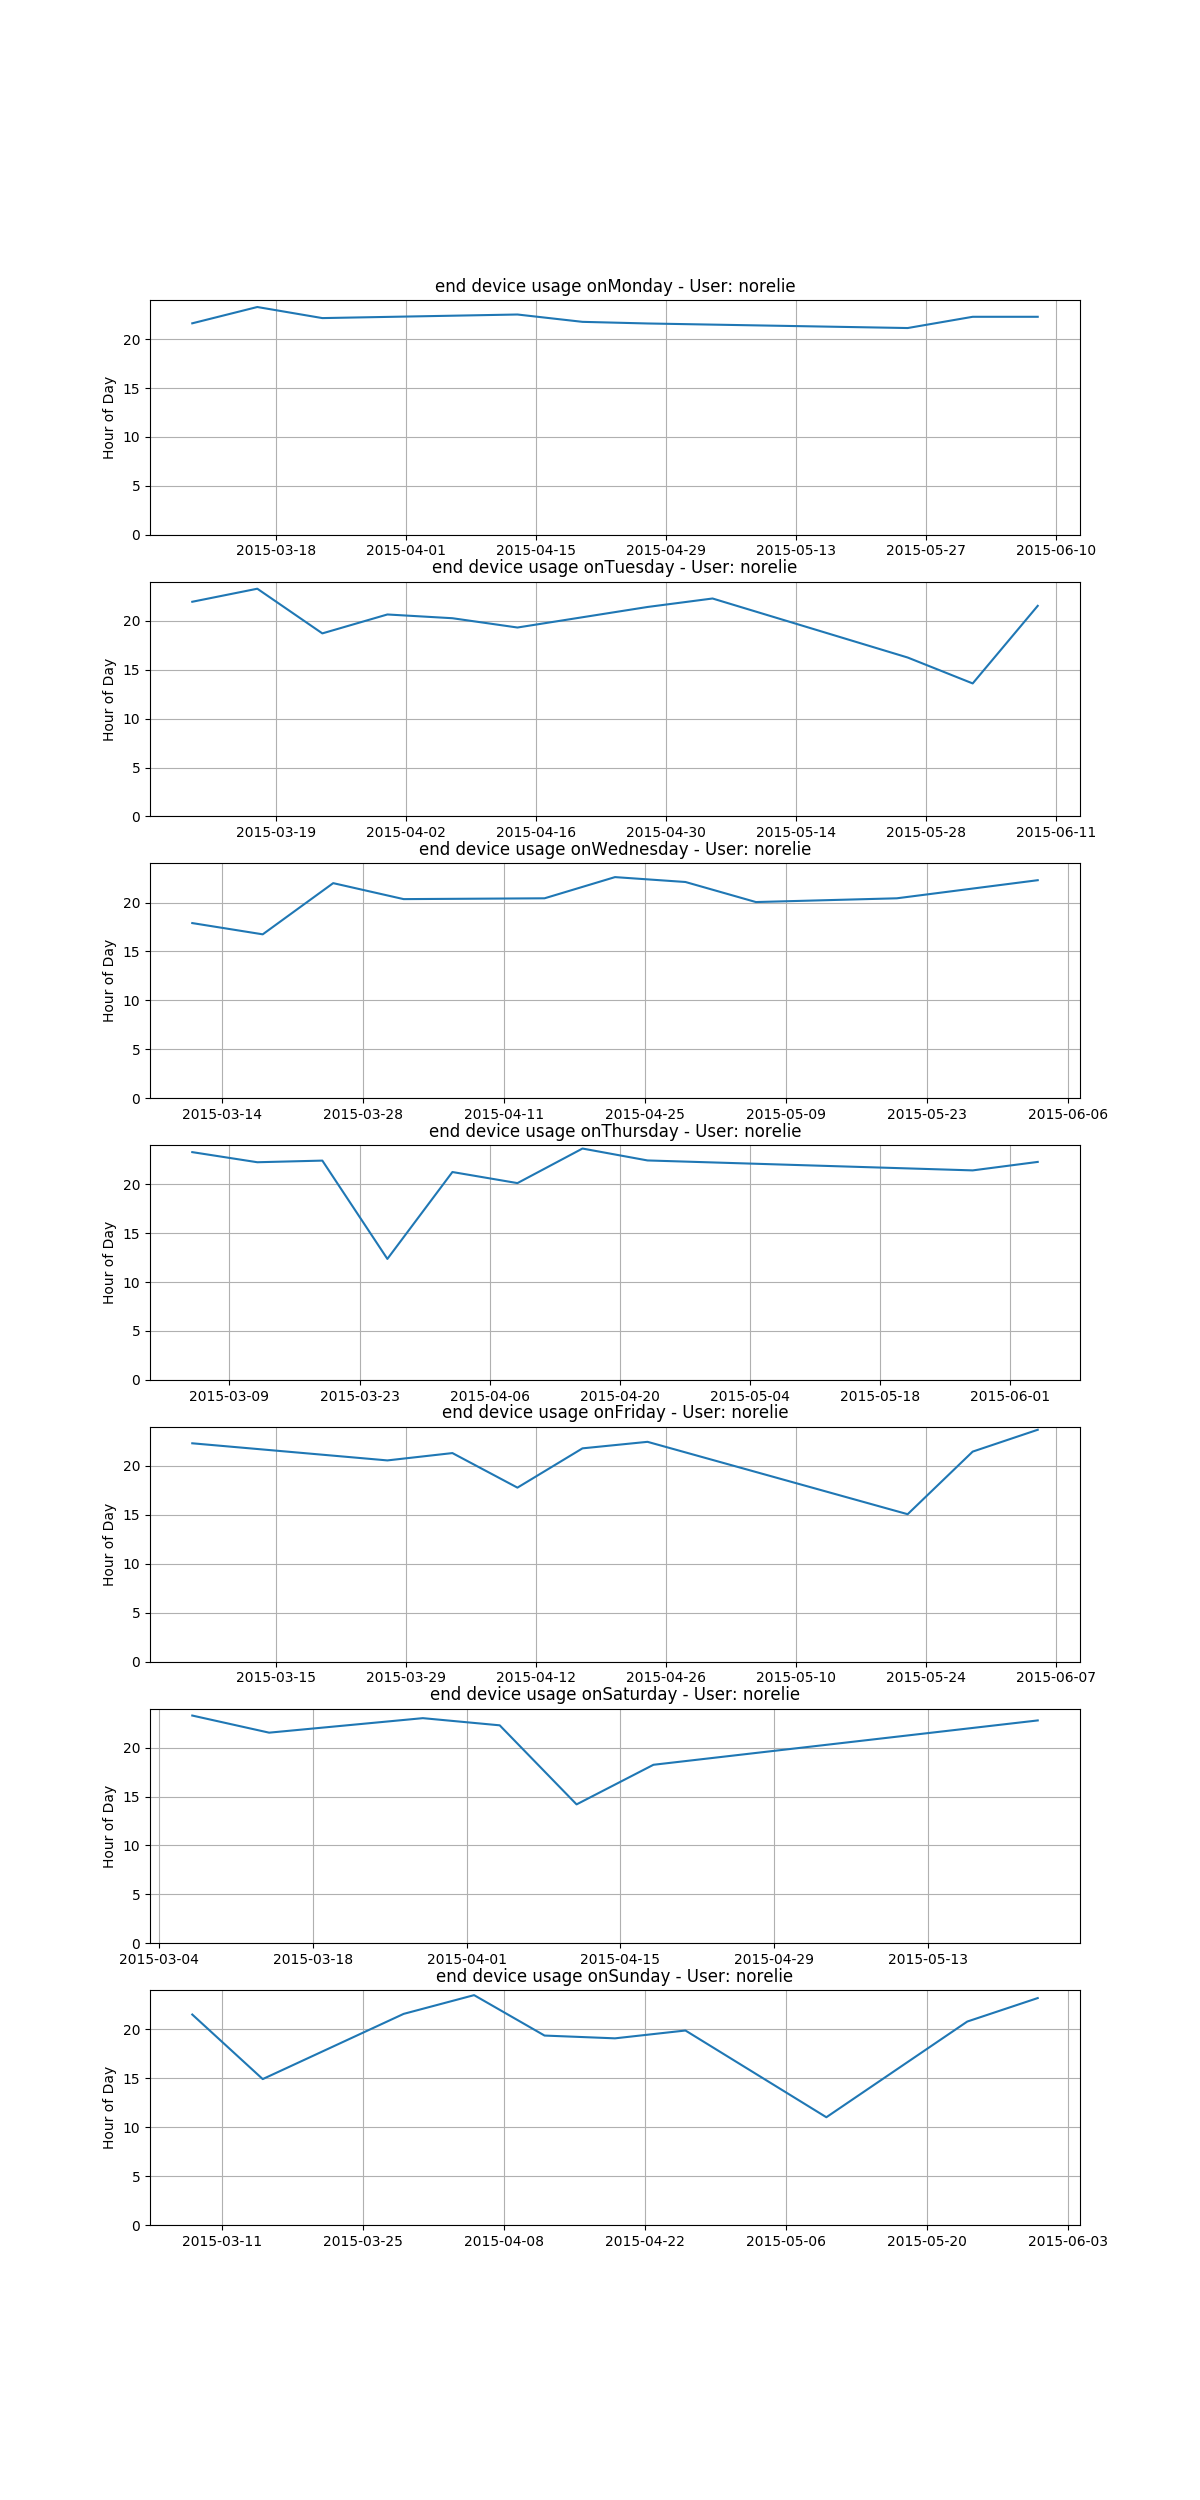
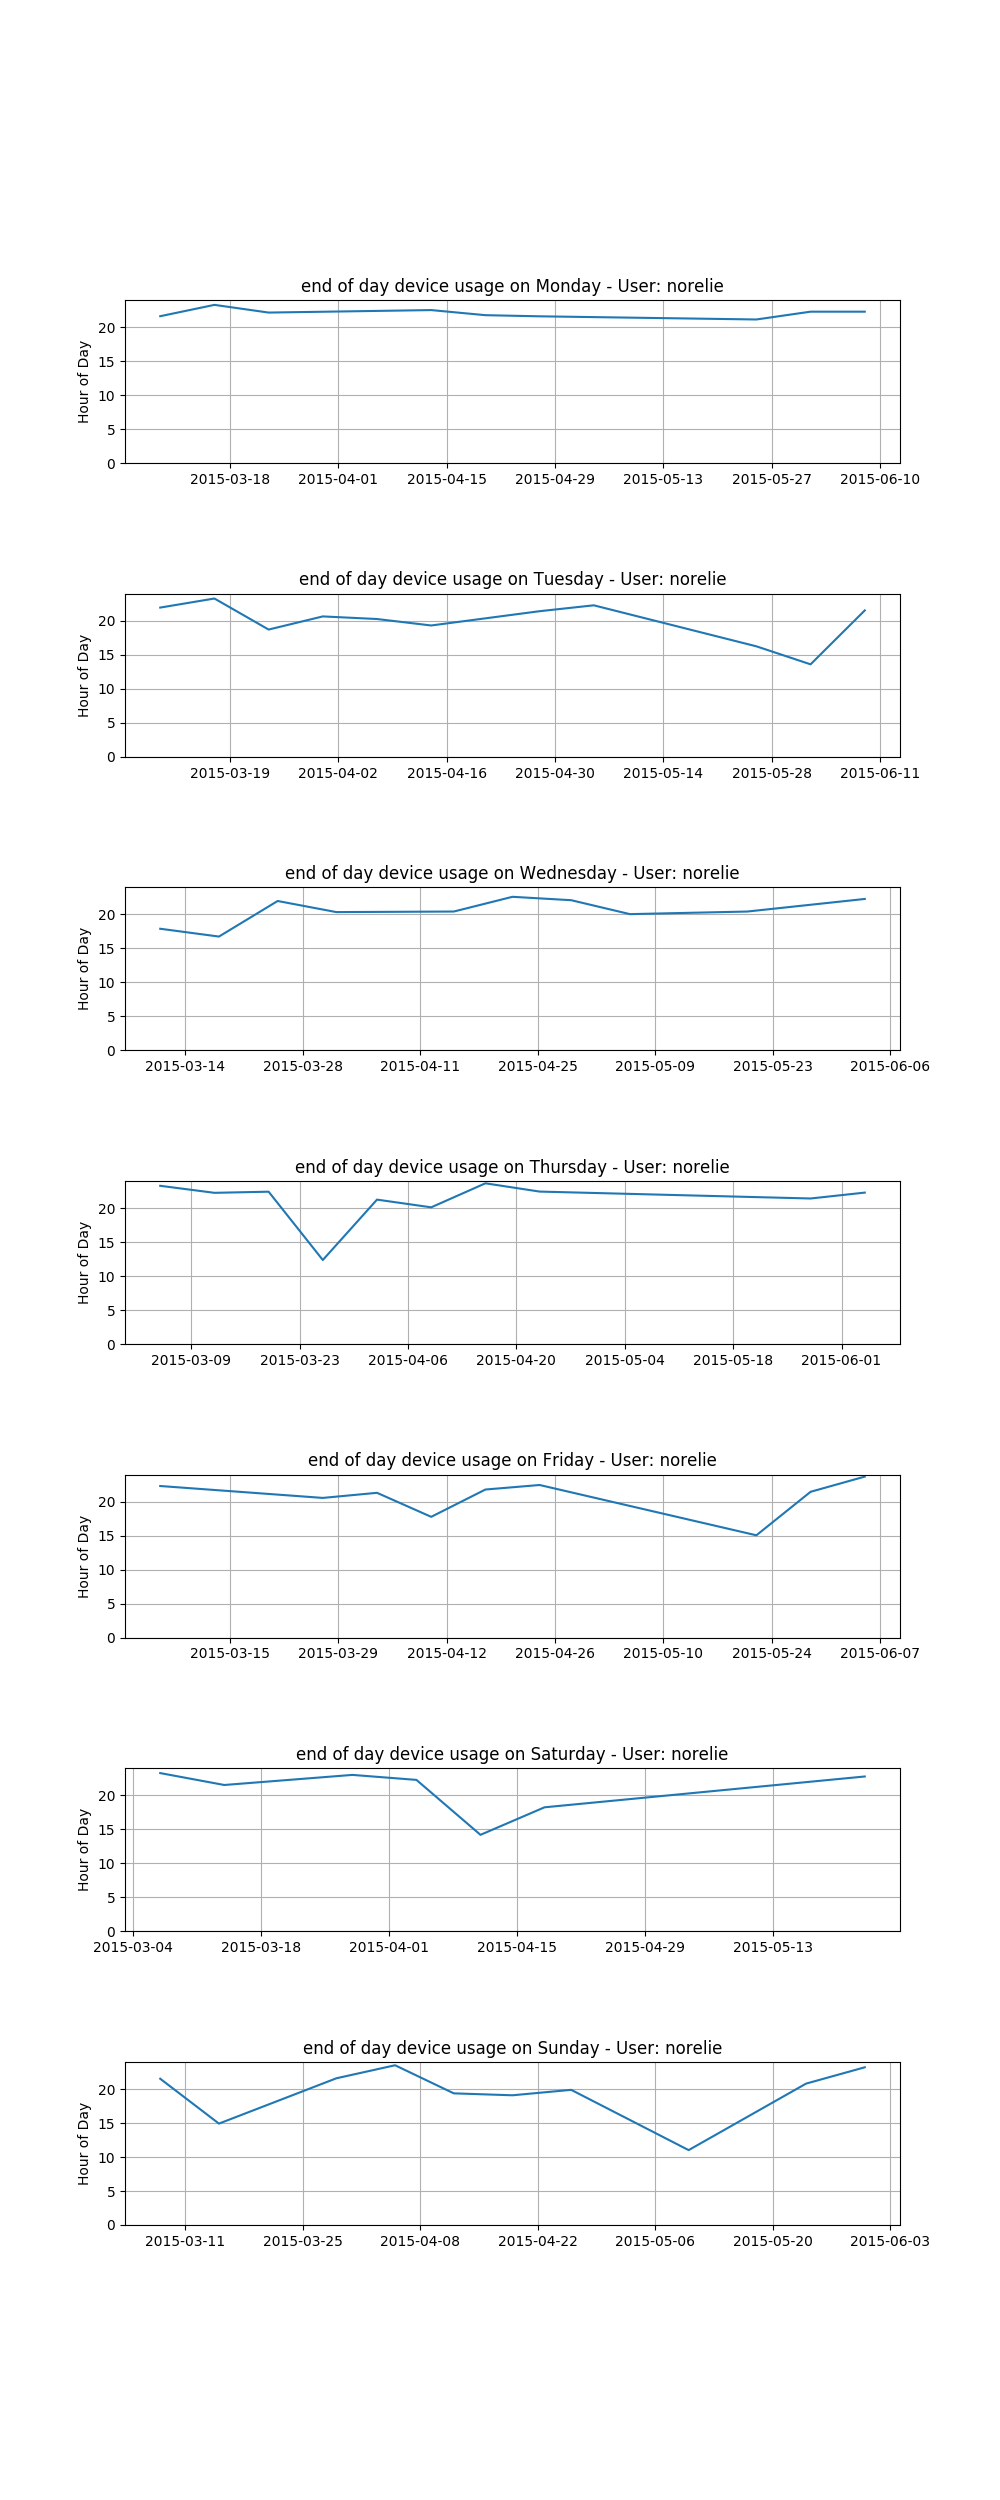
getting info from outside function

diff --git a/location_user_analysis.py b/location_user_analysis.py
@@ -109,10 +109,15 @@ vices.user_id =:user').bindparams(user = user.id)
             #df_end = pd.DataFrame(info_end)
             #display(df_end)
 
-            analyze_per_day(info_beg, 'beg', 'devid', 'location', devices_platform, user)
-            analyze_per_day(info_end, 'end', 'devid', 'location', devices_platform, user)
+            days_str = {'Monday', 'Tuesday', 'Wednesday', 'Thursday', 'Friday','Saturday', 'Sunday'}
+            info_week_beg = analyze_per_day(info_beg, 'beg', 'devid', 'location', devices_platform, user, days_str)
+            info_week_end = analyze_per_day(info_end, 'end', 'devid', 'location', devices_platform, user, days_str)
 
-def analyze_per_day(info, key_beg_end, key_dev, key_loc, devices_platform, user):
+            if info_beg['devid']:
+                if info_beg['devid'][0] == 4:
+                    plot_info(info_week_beg, days_str, 'beg', user)
+
+def analyze_per_day(info, key_beg_end, key_dev, key_loc, devices_platform, user,days_str):
 
     #create table with times for each week day
     info_week = defaultdict(list)
@@ -128,7 +133,7 @@ def analyze_per_day(info, key_beg_end, key_dev, key_loc, devices_platform, user)
 
 
     #print('Device platform: ' + platform)
-    days_str = {'Monday', 'Tuesday', 'Wednesday', 'Thursday', 'Friday','Saturday', 'Sunday'}
+    #days_str = {'Monday', 'Tuesday', 'Wednesday', 'Thursday', 'Friday','Saturday', 'Sunday'}
     df_allweek = defaultdict(list)
     for name in days_str:
         df_col = defaultdict(list)
@@ -141,9 +146,10 @@ def analyze_per_day(info, key_beg_end, key_dev, key_loc, devices_platform, user)
         #display(df_week)
 
     #comecar so com o primeiro usuario
-    if info[key_dev]:
-        if info[key_dev][0] == 6:
-            plot_info(info_week, days_str, key_beg_end, user)
+    return info_week
+    #if info[key_dev]:
+    #    if info[key_dev][0] == 6:
+    #        plot_info(info_week, days_str, key_beg_end, user)
 
 def plot_info (info_week, days_str, key_beg_end, user):
     
@@ -155,7 +161,7 @@ def plot_info (info_week, days_str, key_beg_end, user):
             #df_col['time'].append(timst.time())
             df_col[weekday + 'time'].append(timst.hour+timst.minute/60.0) 
     
-    fig, (ax1, ax2, ax3, ax4, ax5, ax6, ax7) = plt.subplots(7, 1, figsize=(12, 25))
+    fig, (ax1, ax2, ax3, ax4, ax5, ax6, ax7) = plt.subplots(7, 1, figsize=(10, 25))
 
     create_subplot(ax1, df_col, key_beg_end, 'Monday', user)
     create_subplot(ax2, df_col, key_beg_end, 'Tuesday', user)
@@ -165,11 +171,13 @@ def plot_info (info_week, days_str, key_beg_end, user):
     create_subplot(ax6, df_col, key_beg_end, 'Saturday', user)
     create_subplot(ax7, df_col, key_beg_end, 'Sunday', user)
 
+
+    fig.subplots_adjust(hspace = .8)
     fig.savefig('figs/' + user.username + '-' + key_beg_end + 'Allweek.png')
     plt.close(fig)
 
 def create_subplot(ax, df_col, key_beg_end, weekday, user):
-    ax.set_title(key_beg_end + ' device usage on' + weekday + ' - User: ' +  user.username)
+    ax.set_title(key_beg_end + ' of day device usage on ' + weekday + ' - User: ' +  user.username)
     ax.set_ylim([0,24])
     ax.set_ylabel('Hour of Day')
     ax.grid(True)
